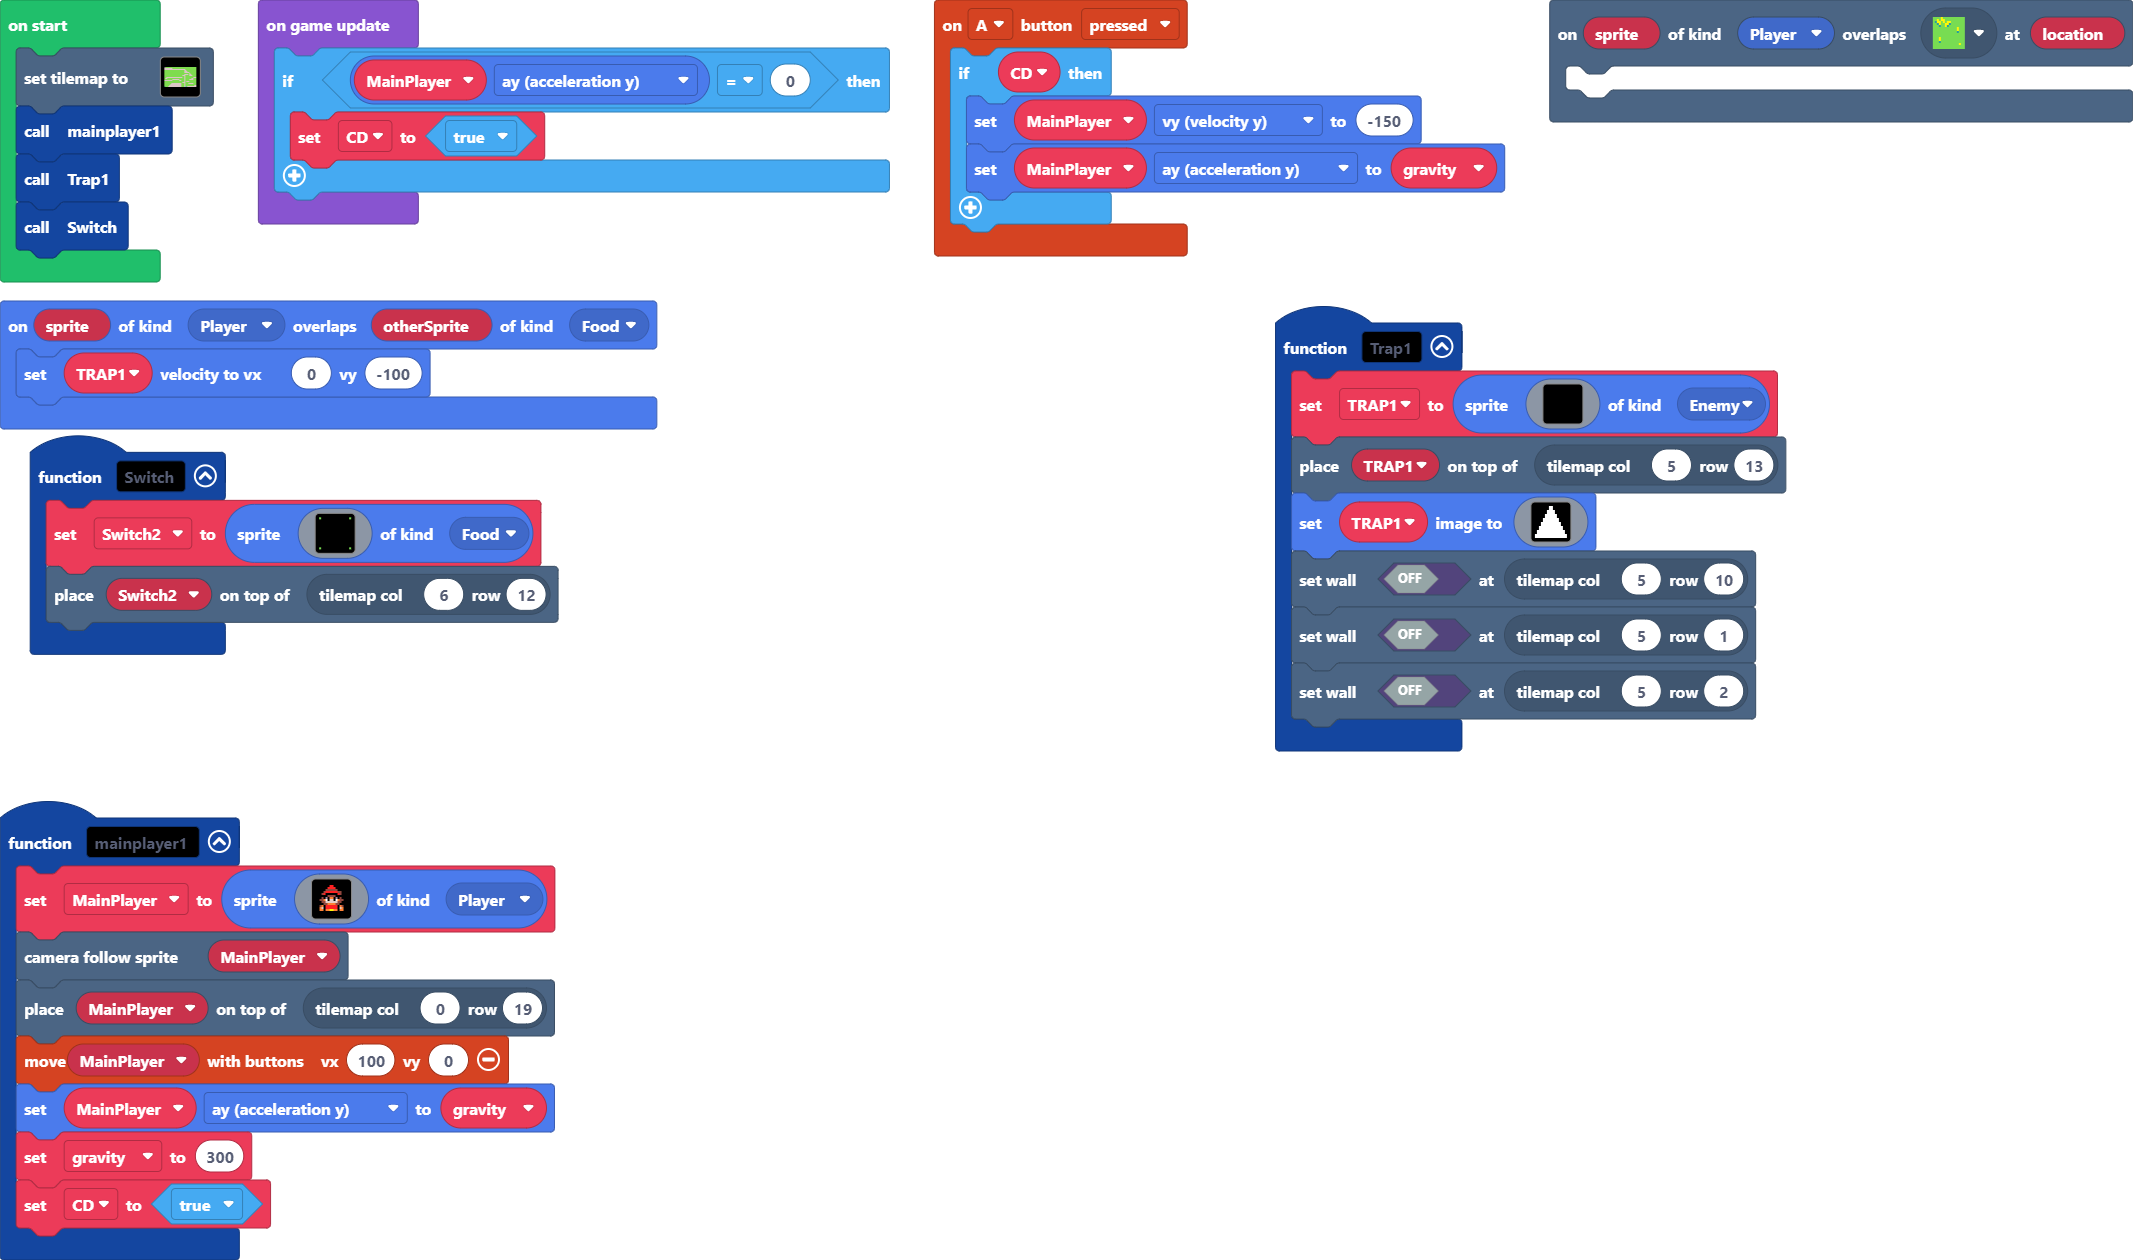
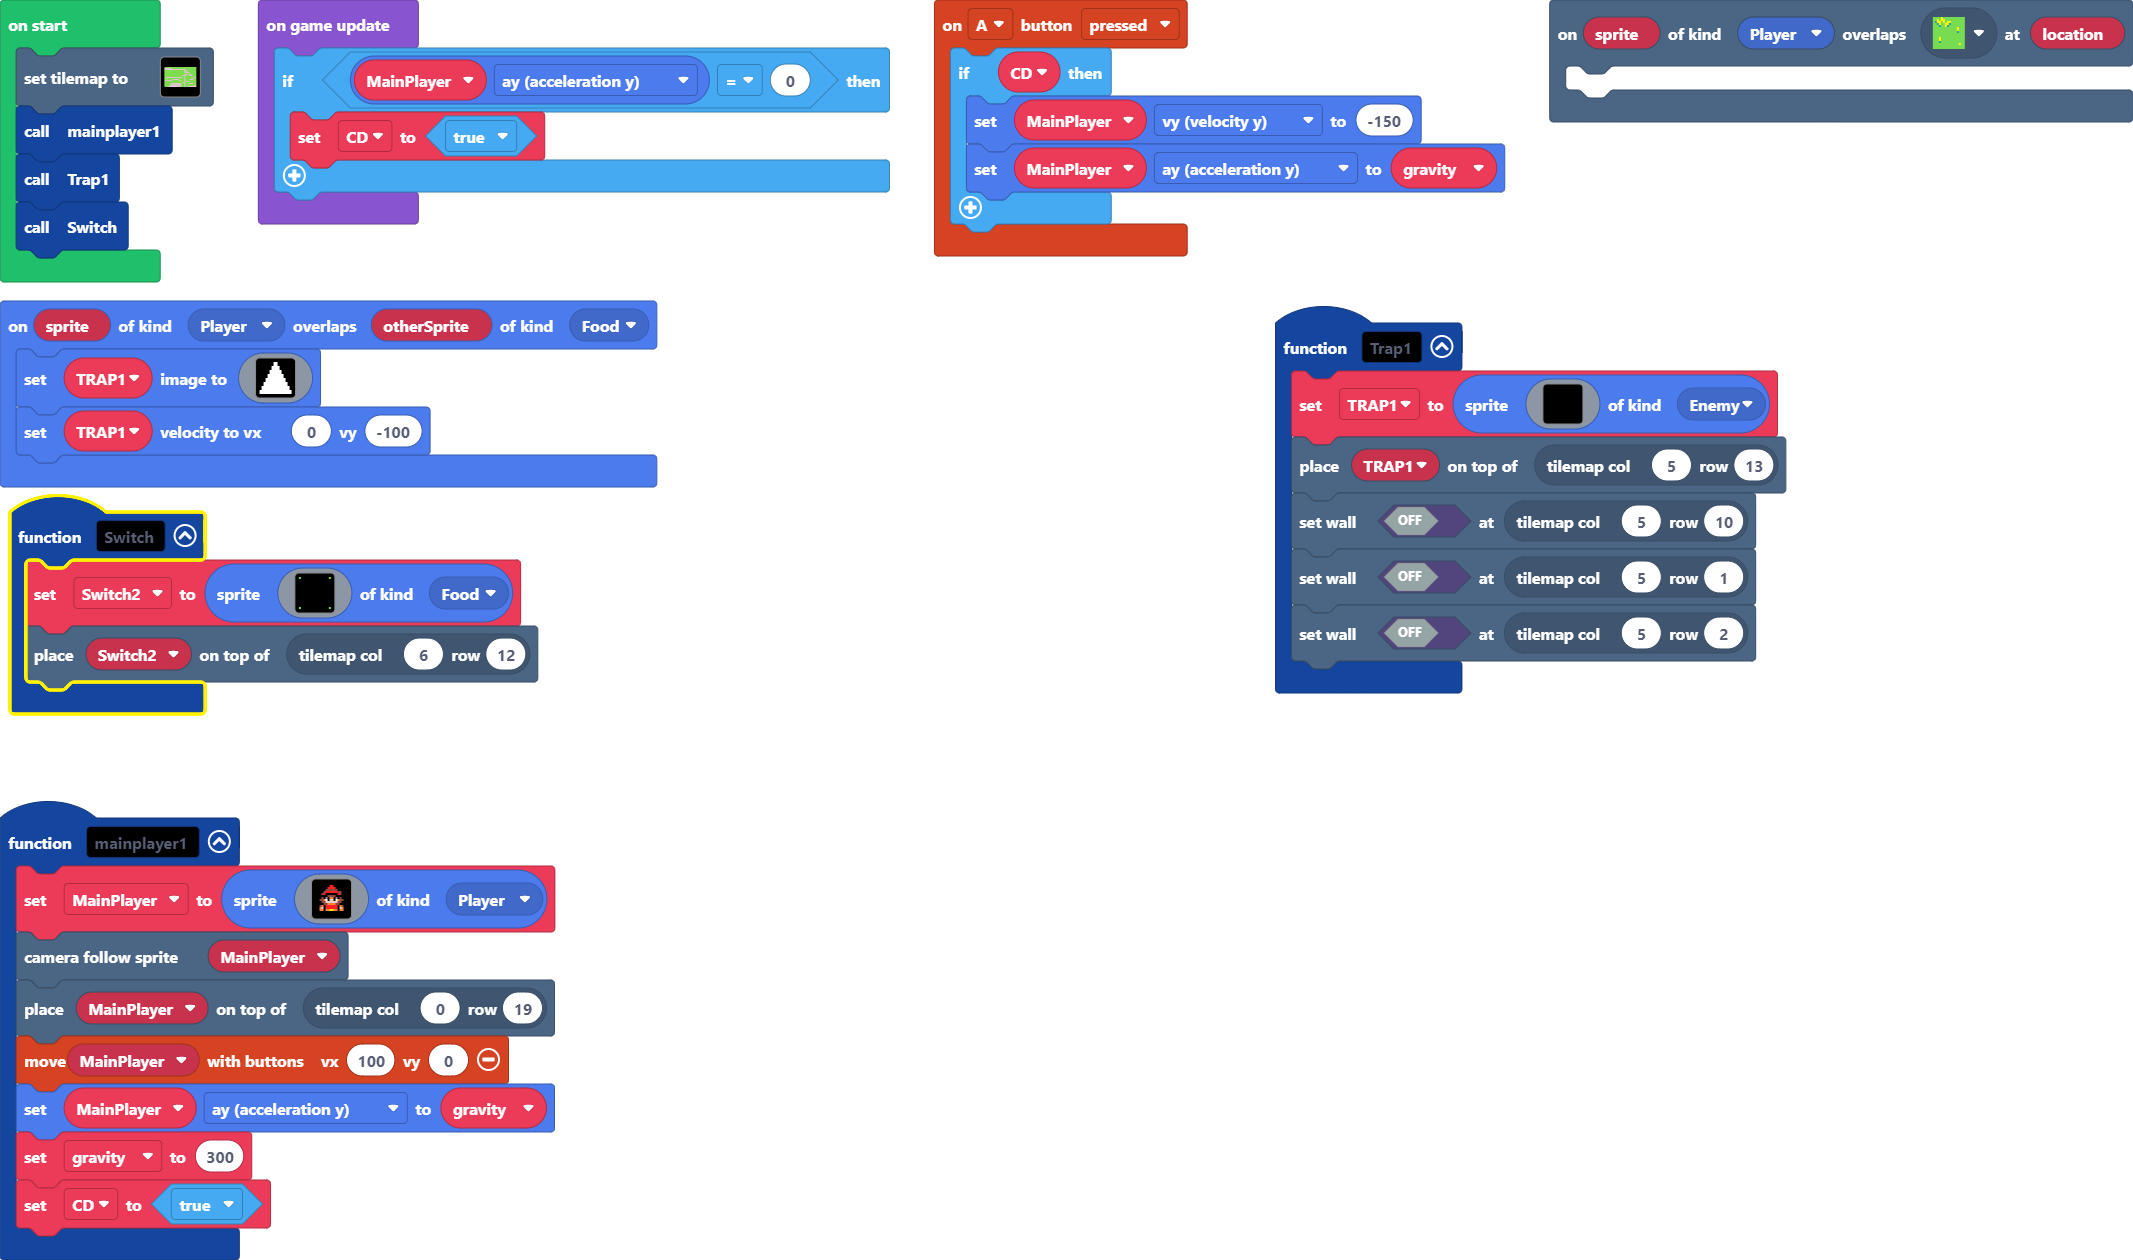
Update main.blocks, main.ts, tilemap.g.jres, tilemap.g.ts

Changed region(s): [[0.0, 0.2786, 0.3094, 0.5881], [0.5879, 0.3714, 0.8354, 0.619]]

diff --git a/tilemap.g.ts b/tilemap.g.ts
@@ -73,6 +73,25 @@ namespace myTiles {
 . . . . . . . . . . . . . . . . 
 . . . . . . . . . . . . . . . . 
 `, [myTiles.transparency16], TileScale.Sixteen);
+            case "level3":
+            case "level3":return tiles.createTilemap(hex`1000100000000000000000000000000000000000000000000000000000000000000000000000000000000000000000000000000000000000000000000000000000000000000000000000000000000000000000000000000000000000000000000000000000000000000000000000000000000000000000000000000000000000000000000000000000000000000000000000000000000000000000000000000000000000000000000000000000000000000000000000000000000000000000000000000000000000000000000000000000000000000000000000000000000000000000000000000000000000000000000000000000000000000000000000000000000000`, img`
+. . . . . . . . . . . . . . . . 
+. . . . . . . . . . . . . . . . 
+. . . . . . . . . . . . . . . . 
+. . . . . . . . . . . . . . . . 
+. . . . . . . . . . . . . . . . 
+. . . . . . . . . . . . . . . . 
+. . . . . . . . . . . . . . . . 
+. . . . . . . . . . . . . . . . 
+. . . . . . . . . . . . . . . . 
+. . . . . . . . . . . . . . . . 
+. . . . . . . . . . . . . . . . 
+. . . . . . . . . . . . . . . . 
+. . . . . . . . . . . . . . . . 
+. . . . . . . . . . . . . . . . 
+. . . . . . . . . . . . . . . . 
+. . . . . . . . . . . . . . . . 
+`, [myTiles.transparency16], TileScale.Sixteen);
         }
         return null;
     })

diff --git a/main.ts b/main.ts
@@ -45,6 +45,11 @@ function Trap1 () {
         . . . . . . . . . . . . . . . . 
         `, SpriteKind.Enemy)
     tiles.placeOnTile(TRAP1, tiles.getTileLocation(5, 13))
+    tiles.setWallAt(tiles.getTileLocation(5, 10), false)
+    tiles.setWallAt(tiles.getTileLocation(5, 1), false)
+    tiles.setWallAt(tiles.getTileLocation(5, 2), false)
+}
+sprites.onOverlap(SpriteKind.Player, SpriteKind.Food, function (sprite, otherSprite) {
     TRAP1.setImage(img`
         . . . . . . . 1 1 . . . . . . . 
         . . . . . . . 1 1 . . . . . . . 
@@ -63,11 +68,6 @@ function Trap1 () {
         1 1 1 1 1 1 1 1 1 1 1 1 1 1 1 1 
         1 1 1 1 1 1 1 1 1 1 1 1 1 1 1 1 
         `)
-    tiles.setWallAt(tiles.getTileLocation(5, 10), false)
-    tiles.setWallAt(tiles.getTileLocation(5, 1), false)
-    tiles.setWallAt(tiles.getTileLocation(5, 2), false)
-}
-sprites.onOverlap(SpriteKind.Player, SpriteKind.Food, function (sprite, otherSprite) {
     TRAP1.setVelocity(0, -100)
 })
 scene.onOverlapTile(SpriteKind.Player, sprites.castle.tileGrass1, function (sprite, location) {
